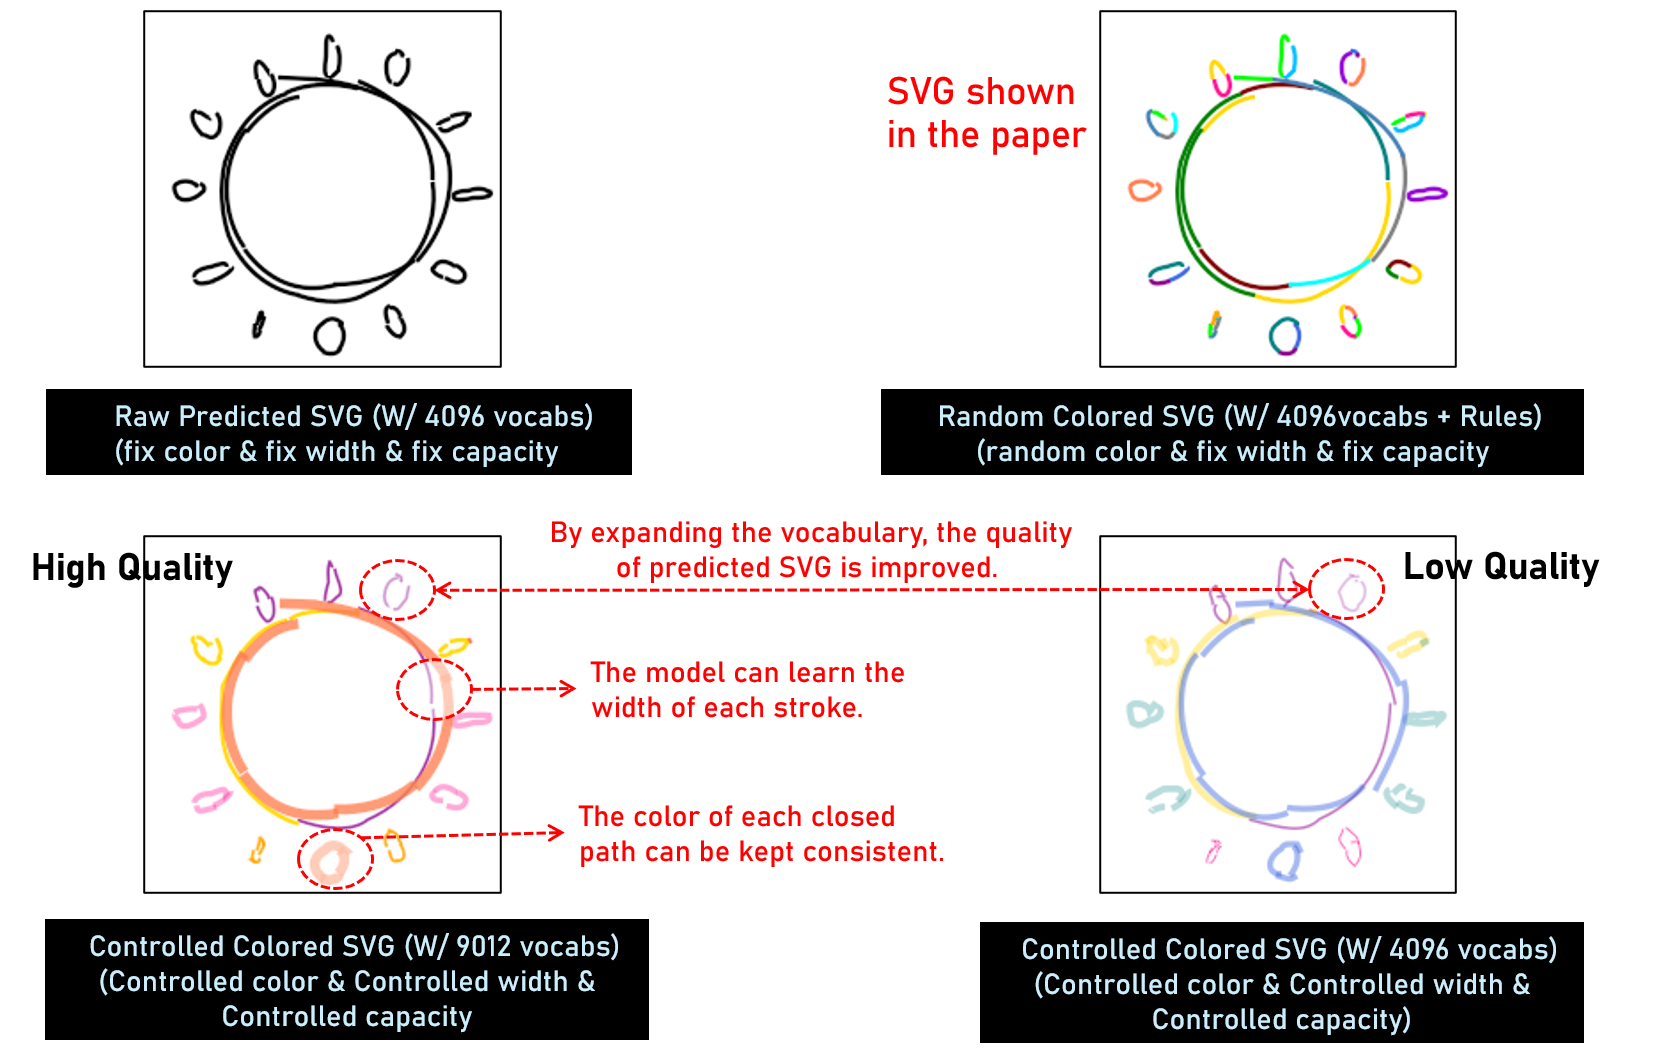
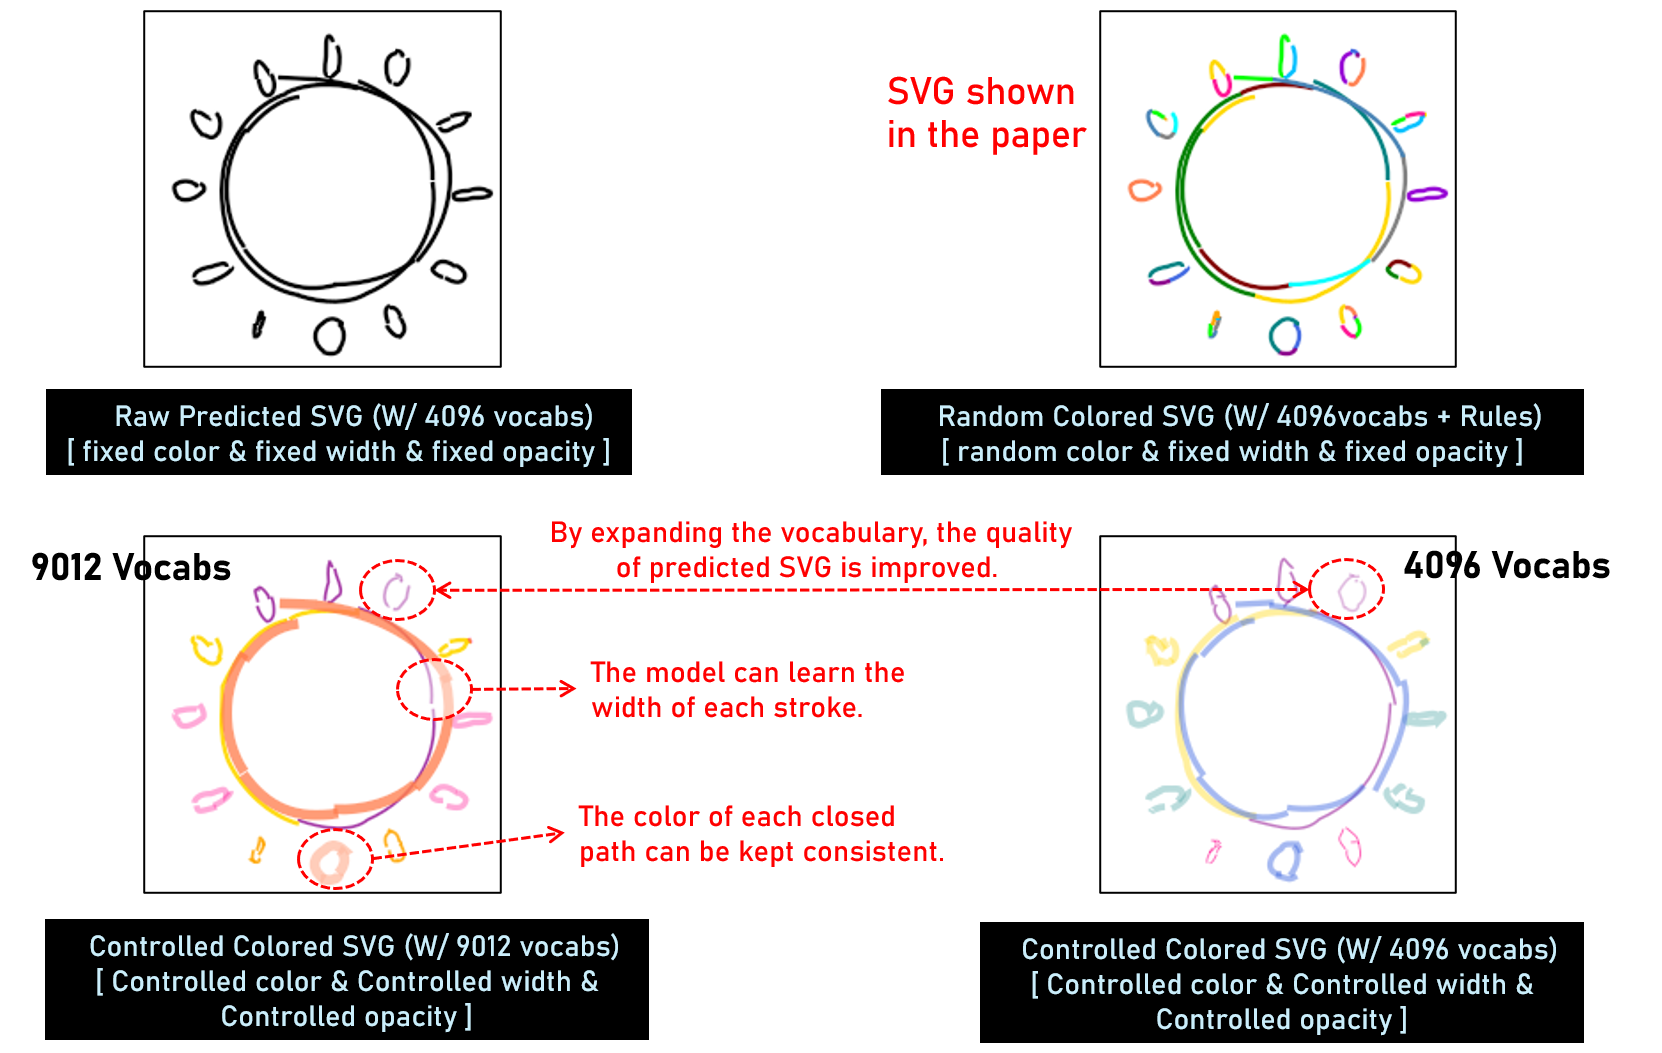
dsa

diff --git a/README.md b/README.md
@@ -2,8 +2,30 @@
 
 ## SVG Generation with more Attributes
 
+### Illustration of SVG Generation with more attributes (color, stroke width and opacity)
+
+In order to incorporate more elements into the process of Stroke generation, we have expanded the Code to Matrix method (as described in section 3.2.1 of the original paper). Specifically, we have added three placeholders to the original matrix, so that $\mathcal{K}_{i}^{j} = f(\mathcal{C}_{i}^{j}) = \left(T, x_0, y_0, c^{x}_0, c^{y}_0, c^{x}_1, c^{y}_1, x_1, y_1\right)_{i}^{j}$ becomes $(\mathcal{K}_{i}^{j})^{\prime} = f^{\prime}(\mathcal{C}_{i}^{j}) = \left(T, color_i, width_i, opacity_i, x_0, y_0, c^{x}_0, c^{y}_0, c^{x}_1, c^{y}_1, x_1, y_1\right)_{i}^{j}$. 
+
+`It's worth noting` that the placeholders here can be expanded to any number, which can be defined by the user and reflected to the SVG through rules. 
+For simplicity of demonstration and validate the feasibility of adding more attributes into ''stroke tokens'', we have inserted three special placeholders:
+- *$color_i$*: to control the color of the SVG path;
+- *$width_i$*: to control the width of the SVG path; 
+- *$opacity_i$*: to control the transparency of the SVG path. 
+
+Since the SVG dataset we used does not provide these parameters, we randomly generated some values for a toy experiment.
+
+#### The comparison of effects using different attributes:
+The **Raw predicted SVG** only uses numerical coordinates as attributes, while **Random Colored SVG** fills the color attribute in the SVG Path using a rule-based method. 
+The two figures below show the results trained with **VQ-Stroke** with different dictionary sizes and additional attributes, e.g., color, path width, and opacity. 
 <p align="center">
   <img src="./src/controlled_svg_generation.png" width="80%"/>
+</p>
+
+
+#### Attribute Controlled Prediction from EDM model
+We retrain the EDM model in the paper using the aforemented ''stroke tokens'' which fused with 3 attributes. Finally, the effect of Figure 2 in original paper is shown below:
+<p align="center">
+  <img src="./src/main_colored.png" width="80%"/>
 </p>
 
 ## Prediction of Stroke Order 
